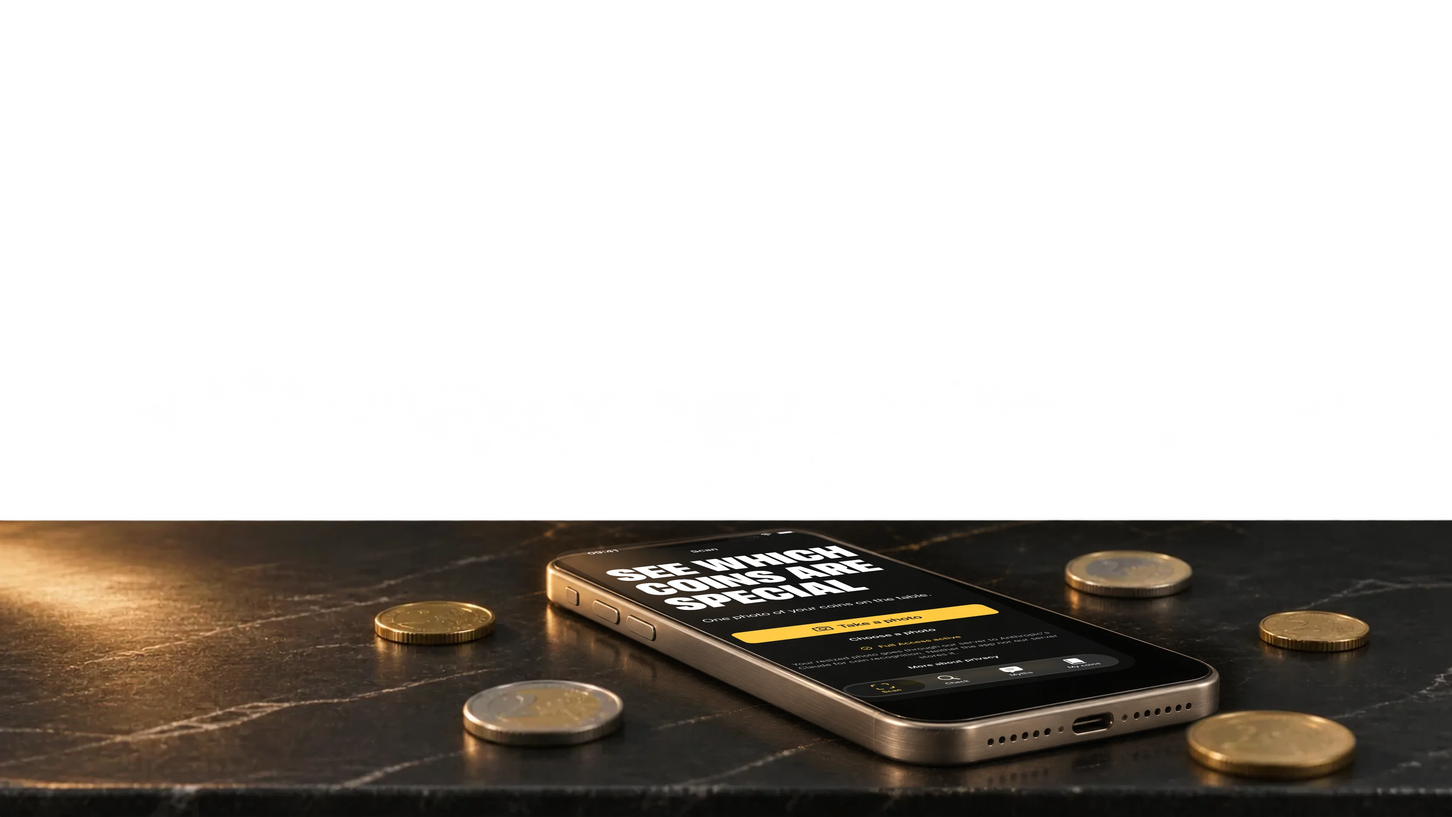
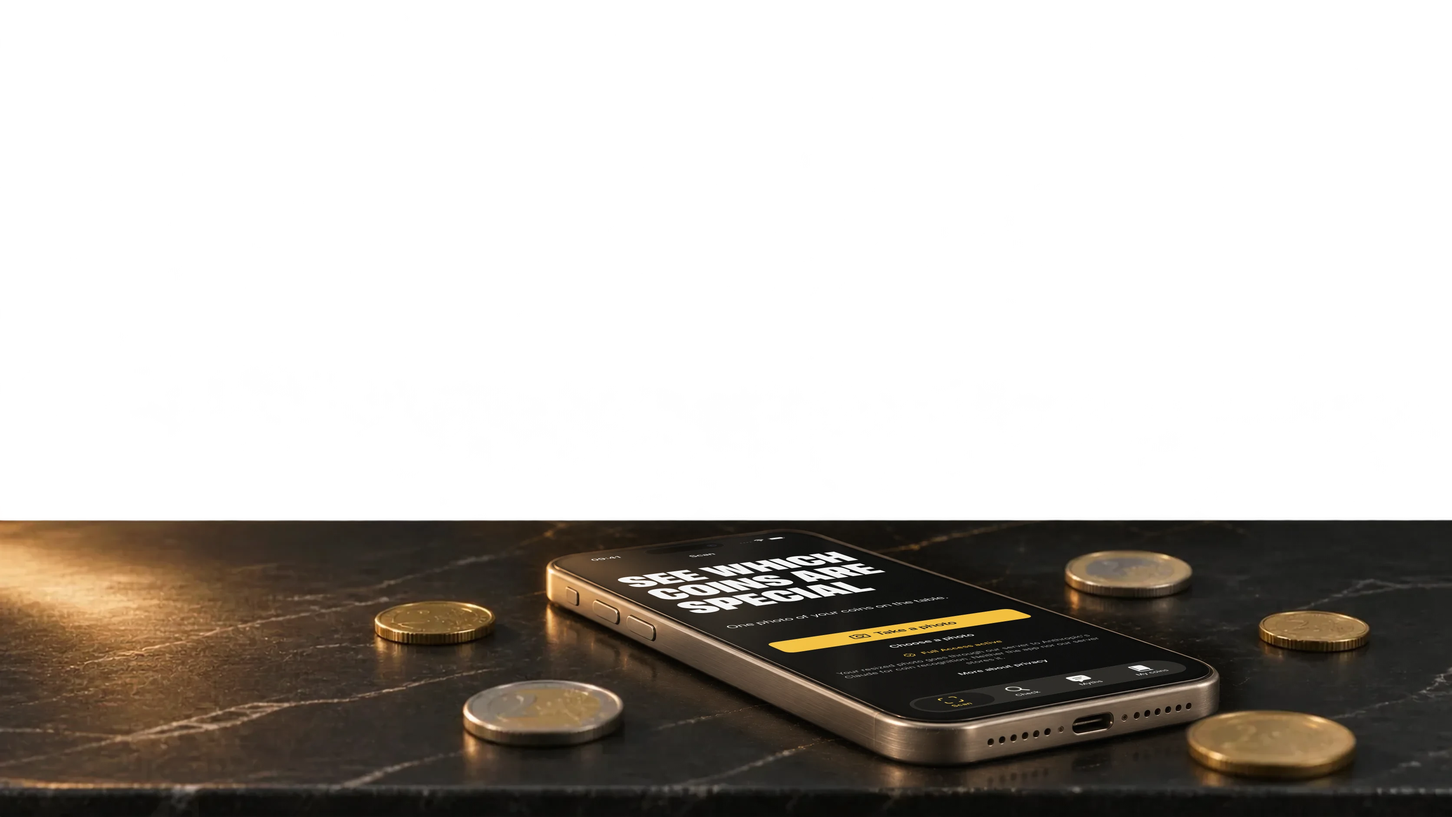
Hero: telefoonscherm opnieuw in het glas gezet (NL en EN, desktop en mobiel), versie op de beeldadressen

Changed region(s): [[0.4043, 0.6472, 0.8086, 0.8629]]

diff --git a/en/index.html b/en/index.html
@@ -1,4 +1,4 @@
-<!doctype html><html lang="en"><head><meta charset="utf-8"><meta name="viewport" content="width=device-width,initial-scale=1,viewport-fit=cover"><meta http-equiv="Content-Security-Policy" content="default-src 'self'; script-src 'self'; style-src 'self' 'unsafe-inline'; img-src 'self' data:; font-src 'self'; connect-src 'self'; object-src 'none'; base-uri 'self'; form-action 'none'"><title>Euroreveal: 2 Euro Coin Value | What is your euro coin worth?</title><meta name="description" content="Now on the App Store. Photograph your euro coins and see which coin it is and what it may be worth. Free search by country and year."><meta name="theme-color" content="#070A12"><meta name="apple-itunes-app" content="app-id=6834049434"><link rel="canonical" href="https://euroreveal.nl/en/"><link rel="alternate" hreflang="nl" href="https://euroreveal.nl/"><link rel="alternate" hreflang="en" href="https://euroreveal.nl/en/"><link rel="alternate" hreflang="x-default" href="https://euroreveal.nl/"><meta property="og:url" content="https://euroreveal.nl/en/"><meta property="og:title" content="Euroreveal: 2 Euro Coin Value"><meta property="og:description" content="Now on the App Store. Photograph your euro coins and see which coin it is and what it may be worth. Free search by country and year."><meta property="og:image" content="https://euroreveal.nl/img/share-en.jpg"><meta property="og:image:width" content="1200"><meta property="og:image:height" content="630"><meta property="og:image:alt" content="Euroreveal"><meta property="og:type" content="website"><meta property="og:locale" content="en_GB"><meta property="og:locale:alternate" content="nl_NL"><meta name="twitter:card" content="summary_large_image"><link rel="icon" href="../img/favicon-32.png"><link rel="apple-touch-icon" href="../img/apple-touch-icon.png"><link rel="preload" href="../fonts/archivo-extracondensed-black.ttf" as="font" type="font/ttf" crossorigin><link rel="stylesheet" href="../fonts/fonts.css"><link rel="stylesheet" href="../style.css"><script src="../site.js" defer></script><script type="application/ld+json">{"@context": "https://schema.org", "@type": "SoftwareApplication", "name": "Euroreveal", "url": "https://euroreveal.nl/en/", "image": "https://euroreveal.nl/img/share-en.jpg", "operatingSystem": "iOS", "applicationCategory": "ReferenceApplication", "inLanguage": "en", "description": "Now on the App Store. Photograph your euro coins and see which coin it is and what it may be worth. Free search by country and year.", "offers": {"@type": "Offer", "price": "0", "priceCurrency": "EUR"}, "downloadUrl": "https://apps.apple.com/app/id6834049434", "installUrl": "https://apps.apple.com/app/id6834049434", "author": {"@type": "Person", "name": "Danny Schuurman"}}</script></head><body class="home"><a class="skip" href="#inhoud">Skip to content</a><a class="appstore nav-store" href="https://apps.apple.com/app/id6834049434?pt=129787946&amp;ct=site&amp;mt=8"><img src="../img/appstore-en.svg" width="122" height="40" alt="Download on the App Store"></a><a class="language" href="../" lang="nl">NL</a><nav class="coin-rail" aria-label="Scenes"><a href="#avond" aria-label="The evening" title="The evening"><span class="rail-coin"></span><span class="rail-label">The evening</span></a><a href="#scan" aria-label="The scan" title="The scan"><span class="rail-coin"></span><span class="rail-label">The scan</span></a><a href="#herkomst" aria-label="The origins" title="The origins"><span class="rail-coin"></span><span class="rail-label">The origins</span></a><a href="#fabel" aria-label="The myth" title="The myth"><span class="rail-coin"></span><span class="rail-label">The myth</span></a><a href="#boekje" aria-label="The collection" title="The collection"><span class="rail-coin"></span><span class="rail-label">The collection</span></a><a href="#privacy" aria-label="Privacy & price" title="Privacy & price"><span class="rail-coin"></span><span class="rail-label">Privacy & price</span></a><a href="#slot" aria-label="Euroreveal" title="Euroreveal"><span class="rail-coin"></span><span class="rail-label">Euroreveal</span></a></nav><main id="inhoud"><section class="hero" id="avond"><div class="hero-stage"><div class="camera"><picture class="plate sky"><source media="(max-width:820px)" srcset="../assets/film/sky-m.webp"><img src="../assets/film/sky-1200.webp" srcset="../assets/film/sky-1200.webp 1200w, ../assets/film/sky.webp 1672w" sizes="100vw" alt="" fetchpriority=high width="1672" height="941"></picture><div class="hero-word"><p class="eyebrow">For the find in your pocket</p><h1>IS YOUR 2 EURO <br>WORTH MORE?</h1></div><picture class="plate far"><source media="(max-width:820px)" srcset="../assets/film/far-m.webp"><img src="../assets/film/far-1200.webp" srcset="../assets/film/far-1200.webp 1200w, ../assets/film/far.webp 1672w" sizes="100vw" alt="" loading=lazy width="1672" height="941"></picture><picture class="plate near"><source media="(max-width:820px)" srcset="../assets/film/near-en-m.webp 1x, ../assets/film/near-en-m-2x.webp 2x"><img src="../assets/film/near-en-1200.webp" srcset="../assets/film/near-en-1200.webp 1200w, ../assets/film/near-en.webp 1672w, ../assets/film/near-en-2x.webp 3344w" sizes="100vw" alt="" fetchpriority=high width="1672" height="941"></picture></div><a class="hero-brand" href="#avond"><img src="../img/icoon.png" width="34" height="34" alt="">Euroreveal</a><div class="hero-bottom"><p>One photo shows which coins are special. <br>Free to try.</p><a class="round-link" href="#scan">Explore the scan <span>↗</span></a><a class="appstore hero-store" href="https://apps.apple.com/app/id6834049434?pt=129787946&amp;ct=site&amp;mt=8"><img src="../img/appstore-en.svg" width="162" height="54" alt="Download on the App Store"></a><small>Now on the App Store. Amsterdam, after closing time.</small></div><div class="dive-shade"></div></div></section>
+<!doctype html><html lang="en"><head><meta charset="utf-8"><meta name="viewport" content="width=device-width,initial-scale=1,viewport-fit=cover"><meta http-equiv="Content-Security-Policy" content="default-src 'self'; script-src 'self'; style-src 'self' 'unsafe-inline'; img-src 'self' data:; font-src 'self'; connect-src 'self'; object-src 'none'; base-uri 'self'; form-action 'none'"><title>Euroreveal: 2 Euro Coin Value | What is your euro coin worth?</title><meta name="description" content="Now on the App Store. Photograph your euro coins and see which coin it is and what it may be worth. Free search by country and year."><meta name="theme-color" content="#070A12"><meta name="apple-itunes-app" content="app-id=6834049434"><link rel="canonical" href="https://euroreveal.nl/en/"><link rel="alternate" hreflang="nl" href="https://euroreveal.nl/"><link rel="alternate" hreflang="en" href="https://euroreveal.nl/en/"><link rel="alternate" hreflang="x-default" href="https://euroreveal.nl/"><meta property="og:url" content="https://euroreveal.nl/en/"><meta property="og:title" content="Euroreveal: 2 Euro Coin Value"><meta property="og:description" content="Now on the App Store. Photograph your euro coins and see which coin it is and what it may be worth. Free search by country and year."><meta property="og:image" content="https://euroreveal.nl/img/share-en.jpg"><meta property="og:image:width" content="1200"><meta property="og:image:height" content="630"><meta property="og:image:alt" content="Euroreveal"><meta property="og:type" content="website"><meta property="og:locale" content="en_GB"><meta property="og:locale:alternate" content="nl_NL"><meta name="twitter:card" content="summary_large_image"><link rel="icon" href="../img/favicon-32.png"><link rel="apple-touch-icon" href="../img/apple-touch-icon.png"><link rel="preload" href="../fonts/archivo-extracondensed-black.ttf" as="font" type="font/ttf" crossorigin><link rel="stylesheet" href="../fonts/fonts.css"><link rel="stylesheet" href="../style.css"><script src="../site.js" defer></script><script type="application/ld+json">{"@context": "https://schema.org", "@type": "SoftwareApplication", "name": "Euroreveal", "url": "https://euroreveal.nl/en/", "image": "https://euroreveal.nl/img/share-en.jpg", "operatingSystem": "iOS", "applicationCategory": "ReferenceApplication", "inLanguage": "en", "description": "Now on the App Store. Photograph your euro coins and see which coin it is and what it may be worth. Free search by country and year.", "offers": {"@type": "Offer", "price": "0", "priceCurrency": "EUR"}, "downloadUrl": "https://apps.apple.com/app/id6834049434", "installUrl": "https://apps.apple.com/app/id6834049434", "author": {"@type": "Person", "name": "Danny Schuurman"}}</script></head><body class="home"><a class="skip" href="#inhoud">Skip to content</a><a class="appstore nav-store" href="https://apps.apple.com/app/id6834049434?pt=129787946&amp;ct=site&amp;mt=8"><img src="../img/appstore-en.svg" width="122" height="40" alt="Download on the App Store"></a><a class="language" href="../" lang="nl">NL</a><nav class="coin-rail" aria-label="Scenes"><a href="#avond" aria-label="The evening" title="The evening"><span class="rail-coin"></span><span class="rail-label">The evening</span></a><a href="#scan" aria-label="The scan" title="The scan"><span class="rail-coin"></span><span class="rail-label">The scan</span></a><a href="#herkomst" aria-label="The origins" title="The origins"><span class="rail-coin"></span><span class="rail-label">The origins</span></a><a href="#fabel" aria-label="The myth" title="The myth"><span class="rail-coin"></span><span class="rail-label">The myth</span></a><a href="#boekje" aria-label="The collection" title="The collection"><span class="rail-coin"></span><span class="rail-label">The collection</span></a><a href="#privacy" aria-label="Privacy & price" title="Privacy & price"><span class="rail-coin"></span><span class="rail-label">Privacy & price</span></a><a href="#slot" aria-label="Euroreveal" title="Euroreveal"><span class="rail-coin"></span><span class="rail-label">Euroreveal</span></a></nav><main id="inhoud"><section class="hero" id="avond"><div class="hero-stage"><div class="camera"><picture class="plate sky"><source media="(max-width:820px)" srcset="../assets/film/sky-m.webp"><img src="../assets/film/sky-1200.webp" srcset="../assets/film/sky-1200.webp 1200w, ../assets/film/sky.webp 1672w" sizes="100vw" alt="" fetchpriority=high width="1672" height="941"></picture><div class="hero-word"><p class="eyebrow">For the find in your pocket</p><h1>IS YOUR 2 EURO <br>WORTH MORE?</h1></div><picture class="plate far"><source media="(max-width:820px)" srcset="../assets/film/far-m.webp"><img src="../assets/film/far-1200.webp" srcset="../assets/film/far-1200.webp 1200w, ../assets/film/far.webp 1672w" sizes="100vw" alt="" loading=lazy width="1672" height="941"></picture><picture class="plate near"><source media="(max-width:820px)" srcset="../assets/film/near-en-m.webp?v=2711 1x, ../assets/film/near-en-m-2x.webp?v=2711 2x"><img src="../assets/film/near-en-1200.webp?v=2711" srcset="../assets/film/near-en-1200.webp?v=2711 1200w, ../assets/film/near-en.webp?v=2711 1672w, ../assets/film/near-en-2x.webp?v=2711 3344w" sizes="100vw" alt="" fetchpriority=high width="1672" height="941"></picture></div><a class="hero-brand" href="#avond"><img src="../img/icoon.png" width="34" height="34" alt="">Euroreveal</a><div class="hero-bottom"><p>One photo shows which coins are special. <br>Free to try.</p><a class="round-link" href="#scan">Explore the scan <span>↗</span></a><a class="appstore hero-store" href="https://apps.apple.com/app/id6834049434?pt=129787946&amp;ct=site&amp;mt=8"><img src="../img/appstore-en.svg" width="162" height="54" alt="Download on the App Store"></a><small>Now on the App Store. Amsterdam, after closing time.</small></div><div class="dive-shade"></div></div></section>
 <section class="film" id="scan"><div class="film-stage"><div class="film-glow"></div><div class="film-copy"><div class="beat beat-0"><p class="eyebrow">The scan</p><h2>PUT IT <br>ON THE TABLE.</h2><p>Take a photo of your coins. National sides facing up.</p></div><div class="beat beat-1"><p class="eyebrow">The scan</p><h2>THREE COINS. <br>TAKE A LOOK.</h2><p>The app marks the coins in the photo. You take a closer look.</p></div><div class="beat beat-2"><p class="eyebrow">The scan</p><h2>WHICH ONE <br>IS YOURS?</h2><p>Compare the details with your own coin. Country, year and version matter.</p></div><div class="beat beat-3"><p class="eyebrow">Separate catalogue example</p><h2>AND THEN. <br>THE REVEAL.</h2><p>One swipe and you see it. Usually an ordinary coin. Sometimes a surprise. Catalogue example: Finland, 2 euro 2004.</p></div><div class="beat beat-4"><p class="eyebrow">The collection</p><h2>IN YOUR COLLECTION.</h2><p>Save the coin with its verdict and estimated value. Your collection starts here.</p></div></div><div class="iphone live-phone"><div class="phone-buttons"></div><div class="screen"><div class="app-shot foto"><img class="shot" src="../assets/app/en-foto.webp" alt="The app checks a photo of three coins on a table" loading=lazy width="603" height="1311"></div><div class="overlay rings-panel"><div class="app-shot ringen"><img class="shot" src="../assets/app/en-ringen.webp" alt="Result of a real scan: three coins circled and numbered" loading=lazy width="603" height="1311"><button class="hit-r3" aria-label="Scratch to reveal the value" data-open></button></div></div><div class="overlay compare-panel" inert aria-hidden="true"><div class="app-shot rijen"><img class="shot" src="../assets/app/en-rijen.webp" alt="Result: two coins to compare, one uncertain match" loading=lazy width="603" height="1311"></div></div><div class="overlay reveal-panel" inert aria-hidden="true"><div class="app-shot onthulling"><img class="shot" src="../assets/app/en-onthulling.webp" alt="The reveal for Finland 2 euro 2004: possibly special, about 29 euros for an uncirculated coin" loading=lazy width="603" height="1311"></div></div><div class="overlay book-panel" inert aria-hidden="true"><div class="app-shot boekje"><img class="shot" src="../assets/app/en-boekje.webp" alt="My coins with Finland 2 euro 2004" loading=lazy width="603" height="1311"></div></div><i class="island"></i></div></div><div class="value-block"><p class="eyebrow">EU enlargement</p><div class="value" aria-live="polite">€ ··</div><p class="condition">uncirculated</p><p class="disclaimer">An indication, not a sale price.</p><button class="scratch-control" data-scratch data-label="Scratch to reveal the value" data-replay="Scratch again">Scratch to reveal the value <span>↗</span></button><p class="catalogue">Finland · 2 euro · 2004</p></div><p class="film-caption">Demonstration using a real scan</p></div></section>
 <section class="pan" id="herkomst"><div class="pan-stage"><div class="pan-heading"><p class="eyebrow">The origins</p><h2>EVERY POCKET <br>HAS A STORY.</h2><p>What has been hiding among your small change.</p></div><div class="pan-track"><figure><picture class=""><source media="(max-width:820px)" srcset="../assets/film/bakker-m.webp"><img src="../assets/film/bakker-1200.webp" srcset="../assets/film/bakker-1200.webp 1200w, ../assets/film/bakker.webp 1672w" sizes="100vw" alt="At the bakery." loading=lazy width="1672" height="941"></picture><figcaption>At the bakery.</figcaption></figure><figure><picture class=""><source media="(max-width:820px)" srcset="../assets/film/vakantie-m.webp"><img src="../assets/film/vakantie-1200.webp" srcset="../assets/film/vakantie-1200.webp 1200w, ../assets/film/vakantie.webp 1672w" sizes="100vw" alt="From the holiday jar." loading=lazy width="1672" height="941"></picture><figcaption>From the holiday jar.</figcaption></figure><figure><picture class=""><source media="(max-width:820px)" srcset="../assets/film/spaarpot-m.webp"><img src="../assets/film/spaarpot-1200.webp" srcset="../assets/film/spaarpot-1200.webp 1200w, ../assets/film/spaarpot.webp 1672w" sizes="100vw" alt="From Grandma." loading=lazy width="1672" height="941"></picture><figcaption>From Grandma.</figcaption></figure><figure><picture class=""><source media="(max-width:820px)" srcset="../assets/film/fooien-m.webp"><img src="../assets/film/fooien-1200.webp" srcset="../assets/film/fooien-1200.webp 1200w, ../assets/film/fooien.webp 1672w" sizes="100vw" alt="After the last coffee." loading=lazy width="1672" height="941"></picture><figcaption>After the last coffee.</figcaption></figure></div></div></section>
 <section class="myth" id="fabel"><picture class="myth-image"><source media="(max-width:820px)" srcset="../assets/film/fabel-m.webp"><img src="../assets/film/fabel-1200.webp" srcset="../assets/film/fabel-1200.webp 1200w, ../assets/film/fabel.webp 1672w" sizes="100vw" alt="" loading=lazy width="1672" height="941"></picture><div class="myth-copy"><h2>“GIVE IT A POLISH. IT WILL BE WORTH MORE.”</h2><p class="verdict">× False</p><p>Cleaning or polishing lowers the collector value. Leave it as it is.</p></div></section>

diff --git a/index.html b/index.html
@@ -1,4 +1,4 @@
-<!doctype html><html lang="nl"><head><meta charset="utf-8"><meta name="viewport" content="width=device-width,initial-scale=1,viewport-fit=cover"><meta http-equiv="Content-Security-Policy" content="default-src 'self'; script-src 'self'; style-src 'self' 'unsafe-inline'; img-src 'self' data:; font-src 'self'; connect-src 'self'; object-src 'none'; base-uri 'self'; form-action 'none'"><title>Euroreveal: 2 euro waarde | Wat is je euromunt waard?</title><meta name="description" content="Nu in de App Store. Maak een foto van je euromunten en zie welke munt het is en wat hij waard kan zijn. Gratis zoeken op land en jaar."><meta name="theme-color" content="#070A12"><meta name="apple-itunes-app" content="app-id=6834049434"><link rel="canonical" href="https://euroreveal.nl/"><link rel="alternate" hreflang="nl" href="https://euroreveal.nl/"><link rel="alternate" hreflang="en" href="https://euroreveal.nl/en/"><link rel="alternate" hreflang="x-default" href="https://euroreveal.nl/"><meta property="og:url" content="https://euroreveal.nl/"><meta property="og:title" content="Euroreveal: 2 euro waarde"><meta property="og:description" content="Nu in de App Store. Maak een foto van je euromunten en zie welke munt het is en wat hij waard kan zijn. Gratis zoeken op land en jaar."><meta property="og:image" content="https://euroreveal.nl/img/share.jpg"><meta property="og:image:width" content="1200"><meta property="og:image:height" content="630"><meta property="og:image:alt" content="Euroreveal"><meta property="og:type" content="website"><meta property="og:locale" content="nl_NL"><meta property="og:locale:alternate" content="en_GB"><meta name="twitter:card" content="summary_large_image"><link rel="icon" href="img/favicon-32.png"><link rel="apple-touch-icon" href="img/apple-touch-icon.png"><link rel="preload" href="fonts/archivo-extracondensed-black.ttf" as="font" type="font/ttf" crossorigin><link rel="stylesheet" href="fonts/fonts.css"><link rel="stylesheet" href="style.css"><script src="site.js" defer></script><script type="application/ld+json">{"@context": "https://schema.org", "@type": "SoftwareApplication", "name": "Euroreveal", "url": "https://euroreveal.nl/", "image": "https://euroreveal.nl/img/share.jpg", "operatingSystem": "iOS", "applicationCategory": "ReferenceApplication", "inLanguage": "nl", "description": "Nu in de App Store. Maak een foto van je euromunten en zie welke munt het is en wat hij waard kan zijn. Gratis zoeken op land en jaar.", "offers": {"@type": "Offer", "price": "0", "priceCurrency": "EUR"}, "downloadUrl": "https://apps.apple.com/app/id6834049434", "installUrl": "https://apps.apple.com/app/id6834049434", "author": {"@type": "Person", "name": "Danny Schuurman"}}</script></head><body class="home"><a class="skip" href="#inhoud">Naar de inhoud</a><a class="appstore nav-store" href="https://apps.apple.com/nl/app/euroreveal-2-euro-waarde/id6834049434?pt=129787946&amp;ct=site&amp;mt=8"><img src="img/appstore-nl.svg" width="122" height="40" alt="Download in de App Store"></a><a class="language" href="en/" lang="en">EN</a><nav class="coin-rail" aria-label="Scènes"><a href="#avond" aria-label="De avond" title="De avond"><span class="rail-coin"></span><span class="rail-label">De avond</span></a><a href="#scan" aria-label="De scan" title="De scan"><span class="rail-coin"></span><span class="rail-label">De scan</span></a><a href="#herkomst" aria-label="De herkomst" title="De herkomst"><span class="rail-coin"></span><span class="rail-label">De herkomst</span></a><a href="#fabel" aria-label="De fabel" title="De fabel"><span class="rail-coin"></span><span class="rail-label">De fabel</span></a><a href="#boekje" aria-label="Het boekje" title="Het boekje"><span class="rail-coin"></span><span class="rail-label">Het boekje</span></a><a href="#privacy" aria-label="Privacy & prijs" title="Privacy & prijs"><span class="rail-coin"></span><span class="rail-label">Privacy & prijs</span></a><a href="#slot" aria-label="Euroreveal" title="Euroreveal"><span class="rail-coin"></span><span class="rail-label">Euroreveal</span></a></nav><main id="inhoud"><section class="hero" id="avond"><div class="hero-stage"><div class="camera"><picture class="plate sky"><source media="(max-width:820px)" srcset="assets/film/sky-m.webp"><img src="assets/film/sky-1200.webp" srcset="assets/film/sky-1200.webp 1200w, assets/film/sky.webp 1672w" sizes="100vw" alt="" fetchpriority=high width="1672" height="941"></picture><div class="hero-word"><p class="eyebrow">Voor de vondst in je zak</p><h1>IS JE 2 EURO <br>MEER WAARD?</h1></div><picture class="plate far"><source media="(max-width:820px)" srcset="assets/film/far-m.webp"><img src="assets/film/far-1200.webp" srcset="assets/film/far-1200.webp 1200w, assets/film/far.webp 1672w" sizes="100vw" alt="" loading=lazy width="1672" height="941"></picture><picture class="plate near"><source media="(max-width:820px)" srcset="assets/film/near-nl-m.webp 1x, assets/film/near-nl-m-2x.webp 2x"><img src="assets/film/near-nl-1200.webp" srcset="assets/film/near-nl-1200.webp 1200w, assets/film/near-nl.webp 1672w, assets/film/near-nl-2x.webp 3344w" sizes="100vw" alt="" fetchpriority=high width="1672" height="941"></picture></div><a class="hero-brand" href="#avond"><img src="img/icoon.png" width="34" height="34" alt="">Euroreveal</a><div class="hero-bottom"><p>Eén foto, en je ziet welke munten bijzonder zijn. <br>Gratis te proberen.</p><a class="round-link" href="#scan">Bekijk de scan <span>↗</span></a><a class="appstore hero-store" href="https://apps.apple.com/nl/app/euroreveal-2-euro-waarde/id6834049434?pt=129787946&amp;ct=site&amp;mt=8"><img src="img/appstore-nl.svg" width="162" height="54" alt="Download in de App Store"></a><small>Nu in de App Store. Amsterdam, na sluitingstijd.</small></div><div class="dive-shade"></div></div></section>
+<!doctype html><html lang="nl"><head><meta charset="utf-8"><meta name="viewport" content="width=device-width,initial-scale=1,viewport-fit=cover"><meta http-equiv="Content-Security-Policy" content="default-src 'self'; script-src 'self'; style-src 'self' 'unsafe-inline'; img-src 'self' data:; font-src 'self'; connect-src 'self'; object-src 'none'; base-uri 'self'; form-action 'none'"><title>Euroreveal: 2 euro waarde | Wat is je euromunt waard?</title><meta name="description" content="Nu in de App Store. Maak een foto van je euromunten en zie welke munt het is en wat hij waard kan zijn. Gratis zoeken op land en jaar."><meta name="theme-color" content="#070A12"><meta name="apple-itunes-app" content="app-id=6834049434"><link rel="canonical" href="https://euroreveal.nl/"><link rel="alternate" hreflang="nl" href="https://euroreveal.nl/"><link rel="alternate" hreflang="en" href="https://euroreveal.nl/en/"><link rel="alternate" hreflang="x-default" href="https://euroreveal.nl/"><meta property="og:url" content="https://euroreveal.nl/"><meta property="og:title" content="Euroreveal: 2 euro waarde"><meta property="og:description" content="Nu in de App Store. Maak een foto van je euromunten en zie welke munt het is en wat hij waard kan zijn. Gratis zoeken op land en jaar."><meta property="og:image" content="https://euroreveal.nl/img/share.jpg"><meta property="og:image:width" content="1200"><meta property="og:image:height" content="630"><meta property="og:image:alt" content="Euroreveal"><meta property="og:type" content="website"><meta property="og:locale" content="nl_NL"><meta property="og:locale:alternate" content="en_GB"><meta name="twitter:card" content="summary_large_image"><link rel="icon" href="img/favicon-32.png"><link rel="apple-touch-icon" href="img/apple-touch-icon.png"><link rel="preload" href="fonts/archivo-extracondensed-black.ttf" as="font" type="font/ttf" crossorigin><link rel="stylesheet" href="fonts/fonts.css"><link rel="stylesheet" href="style.css"><script src="site.js" defer></script><script type="application/ld+json">{"@context": "https://schema.org", "@type": "SoftwareApplication", "name": "Euroreveal", "url": "https://euroreveal.nl/", "image": "https://euroreveal.nl/img/share.jpg", "operatingSystem": "iOS", "applicationCategory": "ReferenceApplication", "inLanguage": "nl", "description": "Nu in de App Store. Maak een foto van je euromunten en zie welke munt het is en wat hij waard kan zijn. Gratis zoeken op land en jaar.", "offers": {"@type": "Offer", "price": "0", "priceCurrency": "EUR"}, "downloadUrl": "https://apps.apple.com/app/id6834049434", "installUrl": "https://apps.apple.com/app/id6834049434", "author": {"@type": "Person", "name": "Danny Schuurman"}}</script></head><body class="home"><a class="skip" href="#inhoud">Naar de inhoud</a><a class="appstore nav-store" href="https://apps.apple.com/nl/app/euroreveal-2-euro-waarde/id6834049434?pt=129787946&amp;ct=site&amp;mt=8"><img src="img/appstore-nl.svg" width="122" height="40" alt="Download in de App Store"></a><a class="language" href="en/" lang="en">EN</a><nav class="coin-rail" aria-label="Scènes"><a href="#avond" aria-label="De avond" title="De avond"><span class="rail-coin"></span><span class="rail-label">De avond</span></a><a href="#scan" aria-label="De scan" title="De scan"><span class="rail-coin"></span><span class="rail-label">De scan</span></a><a href="#herkomst" aria-label="De herkomst" title="De herkomst"><span class="rail-coin"></span><span class="rail-label">De herkomst</span></a><a href="#fabel" aria-label="De fabel" title="De fabel"><span class="rail-coin"></span><span class="rail-label">De fabel</span></a><a href="#boekje" aria-label="Het boekje" title="Het boekje"><span class="rail-coin"></span><span class="rail-label">Het boekje</span></a><a href="#privacy" aria-label="Privacy & prijs" title="Privacy & prijs"><span class="rail-coin"></span><span class="rail-label">Privacy & prijs</span></a><a href="#slot" aria-label="Euroreveal" title="Euroreveal"><span class="rail-coin"></span><span class="rail-label">Euroreveal</span></a></nav><main id="inhoud"><section class="hero" id="avond"><div class="hero-stage"><div class="camera"><picture class="plate sky"><source media="(max-width:820px)" srcset="assets/film/sky-m.webp"><img src="assets/film/sky-1200.webp" srcset="assets/film/sky-1200.webp 1200w, assets/film/sky.webp 1672w" sizes="100vw" alt="" fetchpriority=high width="1672" height="941"></picture><div class="hero-word"><p class="eyebrow">Voor de vondst in je zak</p><h1>IS JE 2 EURO <br>MEER WAARD?</h1></div><picture class="plate far"><source media="(max-width:820px)" srcset="assets/film/far-m.webp"><img src="assets/film/far-1200.webp" srcset="assets/film/far-1200.webp 1200w, assets/film/far.webp 1672w" sizes="100vw" alt="" loading=lazy width="1672" height="941"></picture><picture class="plate near"><source media="(max-width:820px)" srcset="assets/film/near-nl-m.webp?v=2711 1x, assets/film/near-nl-m-2x.webp?v=2711 2x"><img src="assets/film/near-nl-1200.webp?v=2711" srcset="assets/film/near-nl-1200.webp?v=2711 1200w, assets/film/near-nl.webp?v=2711 1672w, assets/film/near-nl-2x.webp?v=2711 3344w" sizes="100vw" alt="" fetchpriority=high width="1672" height="941"></picture></div><a class="hero-brand" href="#avond"><img src="img/icoon.png" width="34" height="34" alt="">Euroreveal</a><div class="hero-bottom"><p>Eén foto, en je ziet welke munten bijzonder zijn. <br>Gratis te proberen.</p><a class="round-link" href="#scan">Bekijk de scan <span>↗</span></a><a class="appstore hero-store" href="https://apps.apple.com/nl/app/euroreveal-2-euro-waarde/id6834049434?pt=129787946&amp;ct=site&amp;mt=8"><img src="img/appstore-nl.svg" width="162" height="54" alt="Download in de App Store"></a><small>Nu in de App Store. Amsterdam, na sluitingstijd.</small></div><div class="dive-shade"></div></div></section>
 <section class="film" id="scan"><div class="film-stage"><div class="film-glow"></div><div class="film-copy"><div class="beat beat-0"><p class="eyebrow">De scan</p><h2>LEG HET <br>OP TAFEL.</h2><p>Je maakt een foto van je munten. De landkant naar boven.</p></div><div class="beat beat-1"><p class="eyebrow">De scan</p><h2>DRIE MUNTEN. <br>EVEN KIJKEN.</h2><p>De app markeert de munten op de foto. Jij kijkt mee.</p></div><div class="beat beat-2"><p class="eyebrow">De scan</p><h2>WELKE IS <br>DE JOUWE?</h2><p>Vergelijk de details met je eigen munt. Land, jaar en uitvoering doen ertoe.</p></div><div class="beat beat-3"><p class="eyebrow">Apart catalogusvoorbeeld</p><h2>EN DAN. <br>DE ONTHULLING.</h2><p>Eén veeg en je ziet het. Meestal een gewone munt. Soms een verrassing. Voorbeeld uit de catalogus: Finland, 2 euro 2004.</p></div><div class="beat beat-4"><p class="eyebrow">Het boekje</p><h2>IN JE BOEKJE.</h2><p>Bewaar de munt met het oordeel en de indicatie. Je verzameling begint hier.</p></div></div><div class="iphone live-phone"><div class="phone-buttons"></div><div class="screen"><div class="app-shot foto"><img class="shot" src="assets/app/nl-foto.webp" alt="De app bekijkt een foto van drie munten op tafel" loading=lazy width="603" height="1311"></div><div class="overlay rings-panel"><div class="app-shot ringen"><img class="shot" src="assets/app/nl-ringen.webp" alt="Uitslag van een echte scan: drie munten omcirkeld en genummerd" loading=lazy width="603" height="1311"><button class="hit-r3" aria-label="Kras de waarde open" data-open></button></div></div><div class="overlay compare-panel" inert aria-hidden="true"><div class="app-shot rijen"><img class="shot" src="assets/app/nl-rijen.webp" alt="Uitslag: twee munten om even te vergelijken, één niet zeker herkend" loading=lazy width="603" height="1311"></div></div><div class="overlay reveal-panel" inert aria-hidden="true"><div class="app-shot onthulling"><img class="shot" src="assets/app/nl-onthulling.webp" alt="De onthulling voor Finland 2 euro 2004: mogelijk bijzonder, ca. 29 euro voor een ongebruikte munt" loading=lazy width="603" height="1311"></div></div><div class="overlay book-panel" inert aria-hidden="true"><div class="app-shot boekje"><img class="shot" src="assets/app/nl-boekje.webp" alt="Mijn boekje met Finland 2 euro 2004" loading=lazy width="603" height="1311"></div></div><i class="island"></i></div></div><div class="value-block"><p class="eyebrow">Uitbreiding EU</p><div class="value" aria-live="polite">€ ··</div><p class="condition">ongebruikt</p><p class="disclaimer">Indicatie, geen verkoopprijs.</p><button class="scratch-control" data-scratch data-label="Kras de waarde open" data-replay="Opnieuw krassen">Kras de waarde open <span>↗</span></button><p class="catalogue">Finland · 2 euro · 2004</p></div><p class="film-caption">Demonstratie met een echte scan</p></div></section>
 <section class="pan" id="herkomst"><div class="pan-stage"><div class="pan-heading"><p class="eyebrow">De herkomst</p><h2>ELKE ZAK <br>HEEFT EEN VERHAAL.</h2><p>Wat er al die tijd tussen je kleingeld zat.</p></div><div class="pan-track"><figure><picture class=""><source media="(max-width:820px)" srcset="assets/film/bakker-m.webp"><img src="assets/film/bakker-1200.webp" srcset="assets/film/bakker-1200.webp 1200w, assets/film/bakker.webp 1672w" sizes="100vw" alt="Bij de bakker." loading=lazy width="1672" height="941"></picture><figcaption>Bij de bakker.</figcaption></figure><figure><picture class=""><source media="(max-width:820px)" srcset="assets/film/vakantie-m.webp"><img src="assets/film/vakantie-1200.webp" srcset="assets/film/vakantie-1200.webp 1200w, assets/film/vakantie.webp 1672w" sizes="100vw" alt="Uit de vakantiepot." loading=lazy width="1672" height="941"></picture><figcaption>Uit de vakantiepot.</figcaption></figure><figure><picture class=""><source media="(max-width:820px)" srcset="assets/film/spaarpot-m.webp"><img src="assets/film/spaarpot-1200.webp" srcset="assets/film/spaarpot-1200.webp 1200w, assets/film/spaarpot.webp 1672w" sizes="100vw" alt="Van oma." loading=lazy width="1672" height="941"></picture><figcaption>Van oma.</figcaption></figure><figure><picture class=""><source media="(max-width:820px)" srcset="assets/film/fooien-m.webp"><img src="assets/film/fooien-1200.webp" srcset="assets/film/fooien-1200.webp 1200w, assets/film/fooien.webp 1672w" sizes="100vw" alt="Na de laatste koffie." loading=lazy width="1672" height="941"></picture><figcaption>Na de laatste koffie.</figcaption></figure></div></div></section>
 <section class="myth" id="fabel"><picture class="myth-image"><source media="(max-width:820px)" srcset="assets/film/fabel-m.webp"><img src="assets/film/fabel-1200.webp" srcset="assets/film/fabel-1200.webp 1200w, assets/film/fabel.webp 1672w" sizes="100vw" alt="" loading=lazy width="1672" height="941"></picture><div class="myth-copy"><h2>“EVEN POETSEN. DAN IS HIJ MEER WAARD.”</h2><p class="verdict">× Onwaar</p><p>Schoonmaken of poetsen verlaagt de verzamelwaarde. Niet doen.</p></div></section>
